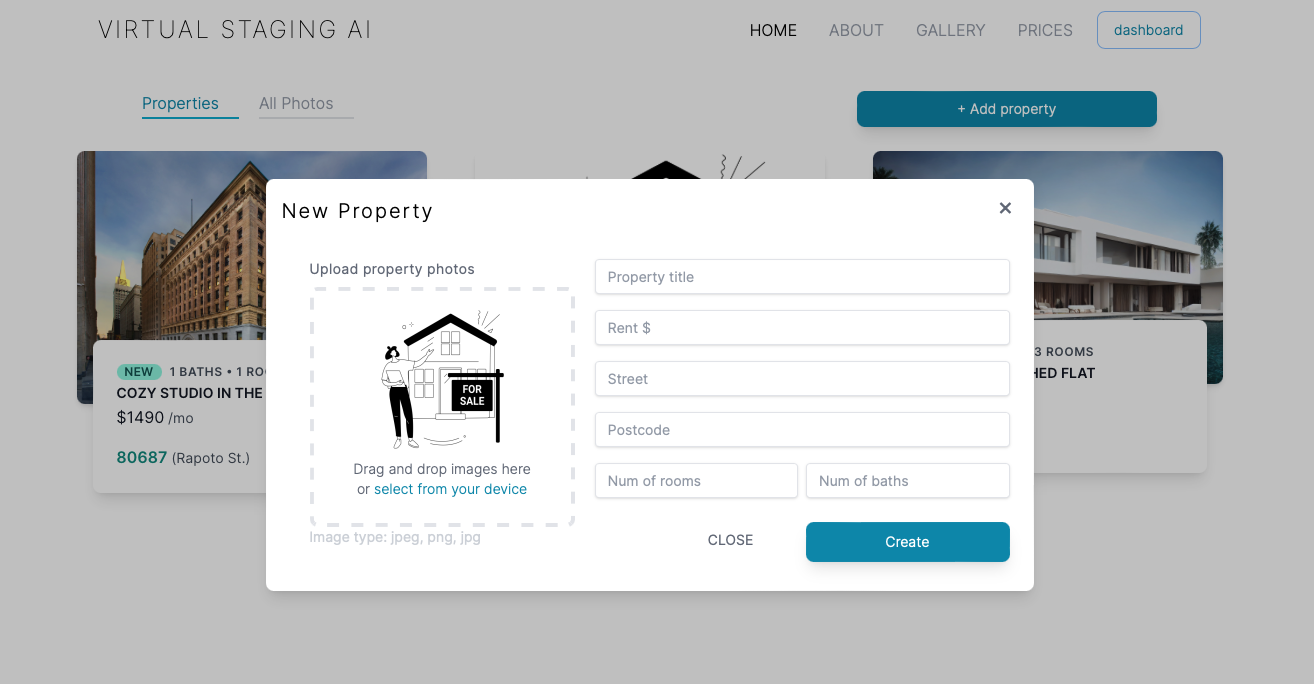
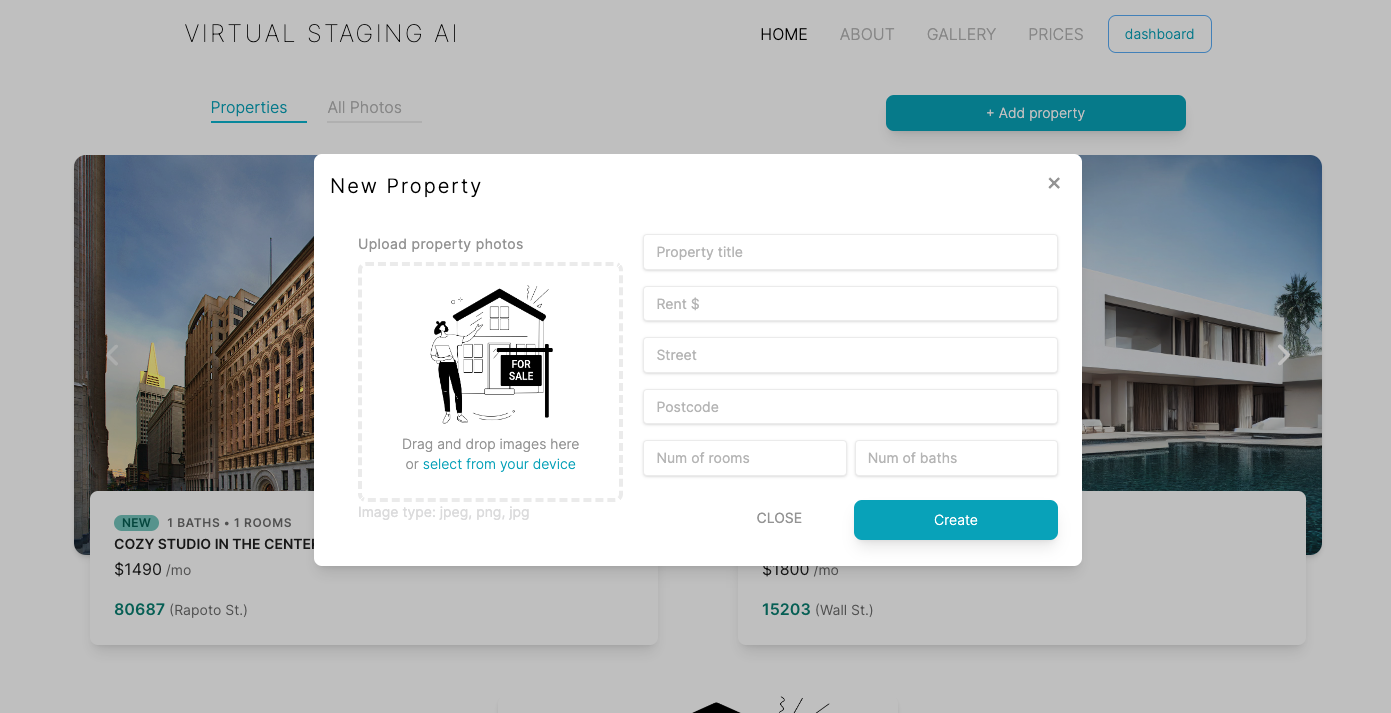
add carousel

diff --git a/app/dashboard/components/PropertyCard/PhotoCarousel.tsx b/app/dashboard/components/PropertyCard/PhotoCarousel.tsx
@@ -1,0 +1,48 @@
+'use client';
+
+import { Carousel } from '@material-tailwind/react';
+import { Photo } from '@/app/firebase/firestore/photo';
+
+interface Props {
+  images: Photo[];
+}
+
+interface NavProps {
+  length: number;
+  activeIndex: number;
+  setActiveIndex: (v: number) => void;
+}
+
+const Navigation = ({ setActiveIndex, activeIndex, length }: NavProps) => (
+  <div className='absolute top-5 left-2/4 z-50 flex -translate-x-2/4 gap-2'>
+    {new Array(length).fill('').map((_, i) => (
+      <span
+        key={i}
+        className={`block h-1 cursor-pointer rounded-2xl transition-all content-[''] ${
+          activeIndex === i ? 'w-8 bg-white' : 'w-4 bg-white/50'
+        }`}
+        onClick={() => setActiveIndex(i)}
+      />
+    ))}
+  </div>
+);
+
+const PhotoCarousel = ({ images }: Props) => {
+  return images.length <= 1 ? (
+    <img
+      src={images[0]?.link || '/buildings/default.jpg'}
+      className='rounded-xl shadow-md w-[400px] max-h-[260px] md:w-[500px] md:max-h-[400px] overflow-hidden'
+    />
+  ) : (
+    <Carousel
+      className='rounded-xl shadow-md w-[400px] max-h-[260px] md:w-[600px] md:max-h-[400px] overflow-hidden'
+      navigation={Navigation}
+    >
+      {images.map((im) => (
+        <img key={im.ref} src={im.link} />
+      ))}
+    </Carousel>
+  );
+};
+
+export default PhotoCarousel;

diff --git a/app/dashboard/components/PhotoItem/index.tsx b/app/dashboard/components/PhotoItem/index.tsx
@@ -16,19 +16,19 @@ const PhotoItem = ({ image, isSelected, onSelect }: Props) => (
     <img
       src={image.link}
       alt='random image'
-      className={`m-5 w-[350px] object-cover object-center rounded-lg shadow-lg ${
+      className={`m-5 w-[400px] max-h-[260px] md:w-[600px] md:max-h-[400px] object-cover object-center rounded-lg shadow-lg ${
         isSelected
           ? 'border-2 border-[#eab308]'
           : 'hover:border-2 hover:border-cyan-500'
       }`}
     />
     {!!image.assignedProperty && (
-      <span className='absolute text-sm top-5 left-1/2 -translate-x-1/2 bg-gray-600 w-[350px] text-center text-white opacity-60 rounded-tl-lg rounded-tr-lg p-1 truncate'>
+      <span className='absolute text-sm top-5 left-1/2 -translate-x-1/2 bg-gray-600 w-[400px] md:w-[600px] text-center text-white opacity-60 rounded-tl-lg rounded-tr-lg p-1 truncate'>
         {image.assignedProperty}
       </span>
     )}
     {isSelected && (
-      <span className='absolute text-sm top-5 left-1/2 -translate-x-1/2 bg-[#eab308] w-[350px] text-right text-white opacity-60 rounded-tl-lg rounded-tr-lg p-1 truncate'>
+      <span className='absolute text-sm top-5 left-1/2 -translate-x-1/2 bg-[#eab308] w-[400px] md:w-[600px] text-right text-white opacity-60 rounded-tl-lg rounded-tr-lg p-1 truncate'>
         ✔
       </span>
     )}

diff --git a/app/dashboard/components/PropertyCard/index.tsx b/app/dashboard/components/PropertyCard/index.tsx
@@ -1,23 +1,15 @@
 import React from 'react';
-import Link from 'next/link';
 import { Property } from '@/app/firebase/firestore/property';
+import PhotoCarousel from './PhotoCarousel';
 
 interface Props {
   property: Property;
 }
 
 const PropertyCard = ({ property }: Props) => (
-  <Link
-    href={`/dashboard/properties/${property.id}`}
-    className='m-6 antialiased text-gray-900 cursor-pointer'
-  >
-    <div>
-      <img
-        src={property.cover.link || '/buildings/default.jpg'}
-        alt=' random imgee'
-        className='w-[350px] object-cover object-center rounded-lg shadow-md'
-      />
-
+  <div className='flex m-6 antialiased text-gray-900 cursor-pointer'>
+    <div className=''>
+      <PhotoCarousel images={property.images} />
       <div className='px-4 relative -mt-16'>
         <div className='bg-white p-6 rounded-lg shadow-lg'>
           <div className='flex items-baseline'>
@@ -47,7 +39,7 @@ const PropertyCard = ({ property }: Props) => (
         </div>
       </div>
     </div>
-  </Link>
+  </div>
 );
 
 export default PropertyCard;

diff --git a/app/firebase/firestore/property.ts b/app/firebase/firestore/property.ts
@@ -25,21 +25,6 @@ export type Property = {
   images: { ref: string; link: string }[];
 };
 
-const get = async (id: string) => {
-  let docRef = doc(DB, COLLECTION, id);
-
-  let result = null;
-  let error = null;
-
-  try {
-    result = await getDoc(docRef);
-  } catch (e) {
-    error = e;
-  }
-
-  return result?.data() as unknown as Property;
-};
-
 const list = async () => {
   const result: Property[] = [];
   let error = null;
@@ -90,4 +75,4 @@ const update = async (id: string, property: Omit<Property, 'id'>) => {
   return { result, error };
 };
 
-export default { create, update, get, list };
+export default { create, update, list };

diff --git a/app/dashboard/components/Properties/index.tsx b/app/dashboard/components/Properties/index.tsx
@@ -2,6 +2,7 @@ import React from 'react';
 
 import PropertyCard from '../PropertyCard';
 import { Property } from '@/app/firebase/firestore/property';
+import { sortAlphabetically } from '@/app/utils';
 
 interface Props {
   properties: Property[];
@@ -9,7 +10,7 @@ interface Props {
 
 const Properties = ({ properties }: Props) => (
   <div className='flex justify-center flex-wrap'>
-    {properties.map((property, i) => (
+    {sortAlphabetically(properties, 'title').map((property, i) => (
       <PropertyCard key={i} property={property} />
     ))}
   </div>

diff --git a/tailwind.config.ts b/tailwind.config.ts
@@ -1,6 +1,6 @@
-import type { Config } from 'tailwindcss'
+import withMT from '@material-tailwind/react/utils/withMT';
 
-const config: Config = {
+const config = withMT({
   content: [
     './pages/**/*.{js,ts,jsx,tsx,mdx}',
     './components/**/*.{js,ts,jsx,tsx,mdx}',
@@ -16,5 +16,6 @@ const config: Config = {
     },
   },
   plugins: [],
-}
-export default config
+});
+
+export default config;

diff --git a/app/layout.tsx b/app/layout.tsx
@@ -20,7 +20,7 @@ export default function RootLayout({
     <html lang='en'>
       <body className={inter.className}>
         <Navbar />
-        <main className='flex justify-center mx-0 sm:mx-5 md:mx-20'>
+        <main className='flex justify-center mx-0 sm:mx-5 md:mx-14'>
           {children}
         </main>
       </body>

diff --git a/README.md b/README.md
@@ -17,7 +17,6 @@ Furnish empty apartment pictures with AI.
 
 #### What other features may I add if I have some extra time?
 
-- add image carousel for each property item on dashboard for previewing all the images
 - allow archiving already assigned images or properties for cleaner dashboard
 - introduce progress bar for uploading
 - loading animation for different pages
